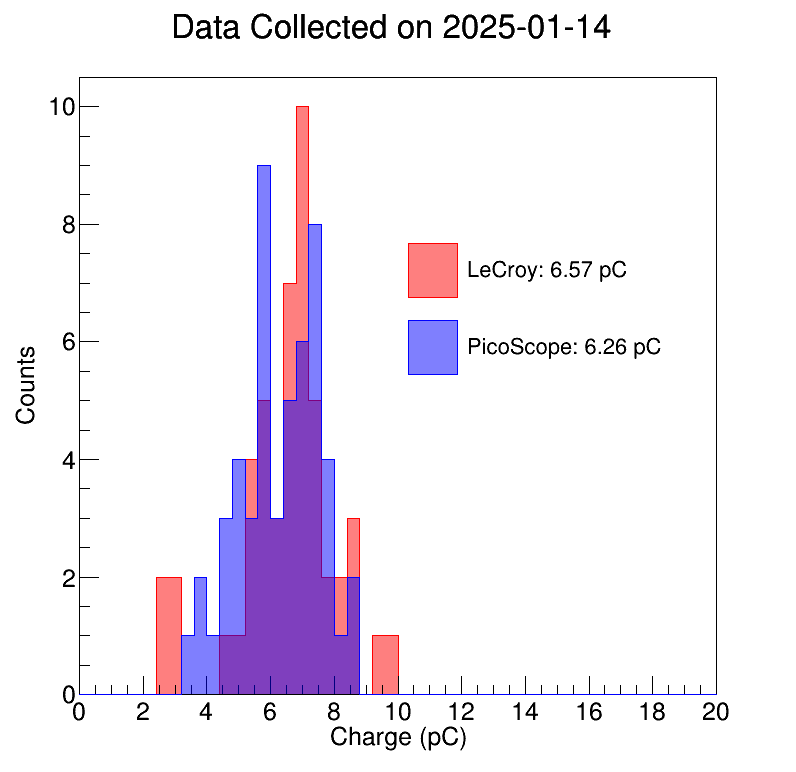
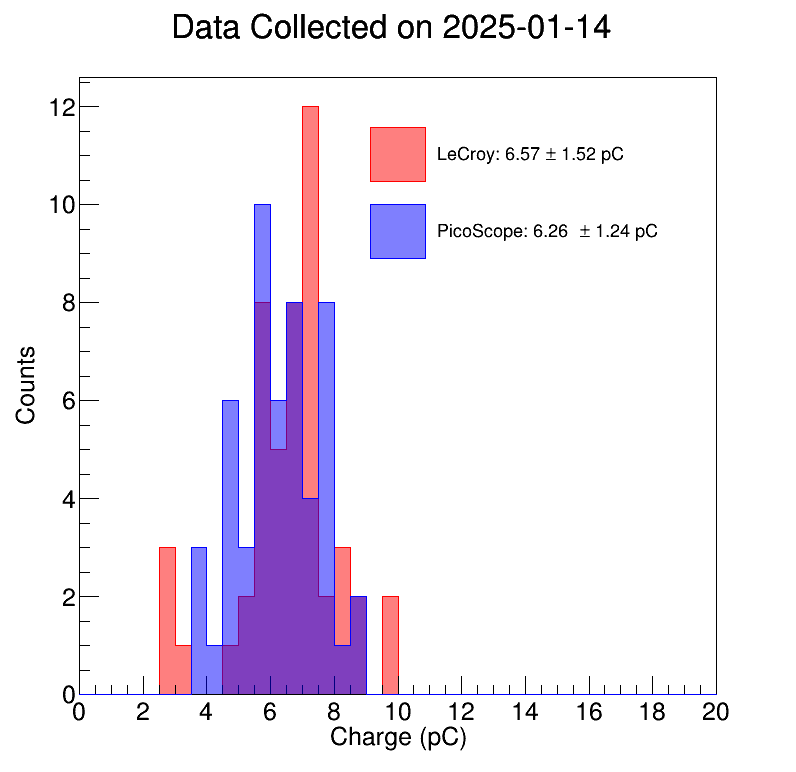
Update

diff --git a/PicoScope_Recalib/main.cpp b/PicoScope_Recalib/main.cpp
@@ -172,7 +172,7 @@ int main() {
 
   int integralMarkerLeCroy = 1752;
   int integralMarkerPicoScope = 1202;
-  int nbins = 50;
+  int nbins = 40;
   int min_charge = 0;
   int max_charge = 20;
 
@@ -214,9 +214,9 @@ int main() {
   h_PicoScope->SetFillColorAlpha(kBlue, 0.5);
   h_PicoScope->Draw("SAME");
 
-  auto leg = new TLegend(0.5, 0.5, 0.85, 0.7);
-  leg->AddEntry(h_LeCroy, Form("LeCroy: %1.2f pC", h_LeCroy->GetMean()), "f");
-  leg->AddEntry(h_PicoScope, Form("PicoScope: %1.2f pC", h_PicoScope->GetMean()), "f");
+  auto leg = new TLegend(0.45, 0.65, 0.85, 0.85);
+  leg->AddEntry(h_LeCroy, Form("LeCroy: %1.2f #pm %1.2f pC", h_LeCroy->GetMean(), h_LeCroy->GetStdDev()), "f");
+  leg->AddEntry(h_PicoScope, Form("PicoScope: %1.2f  #pm %1.2f pC", h_PicoScope->GetMean(), h_PicoScope->GetStdDev()), "f");
   leg->SetBorderSize(0);
   leg->Draw();
 
